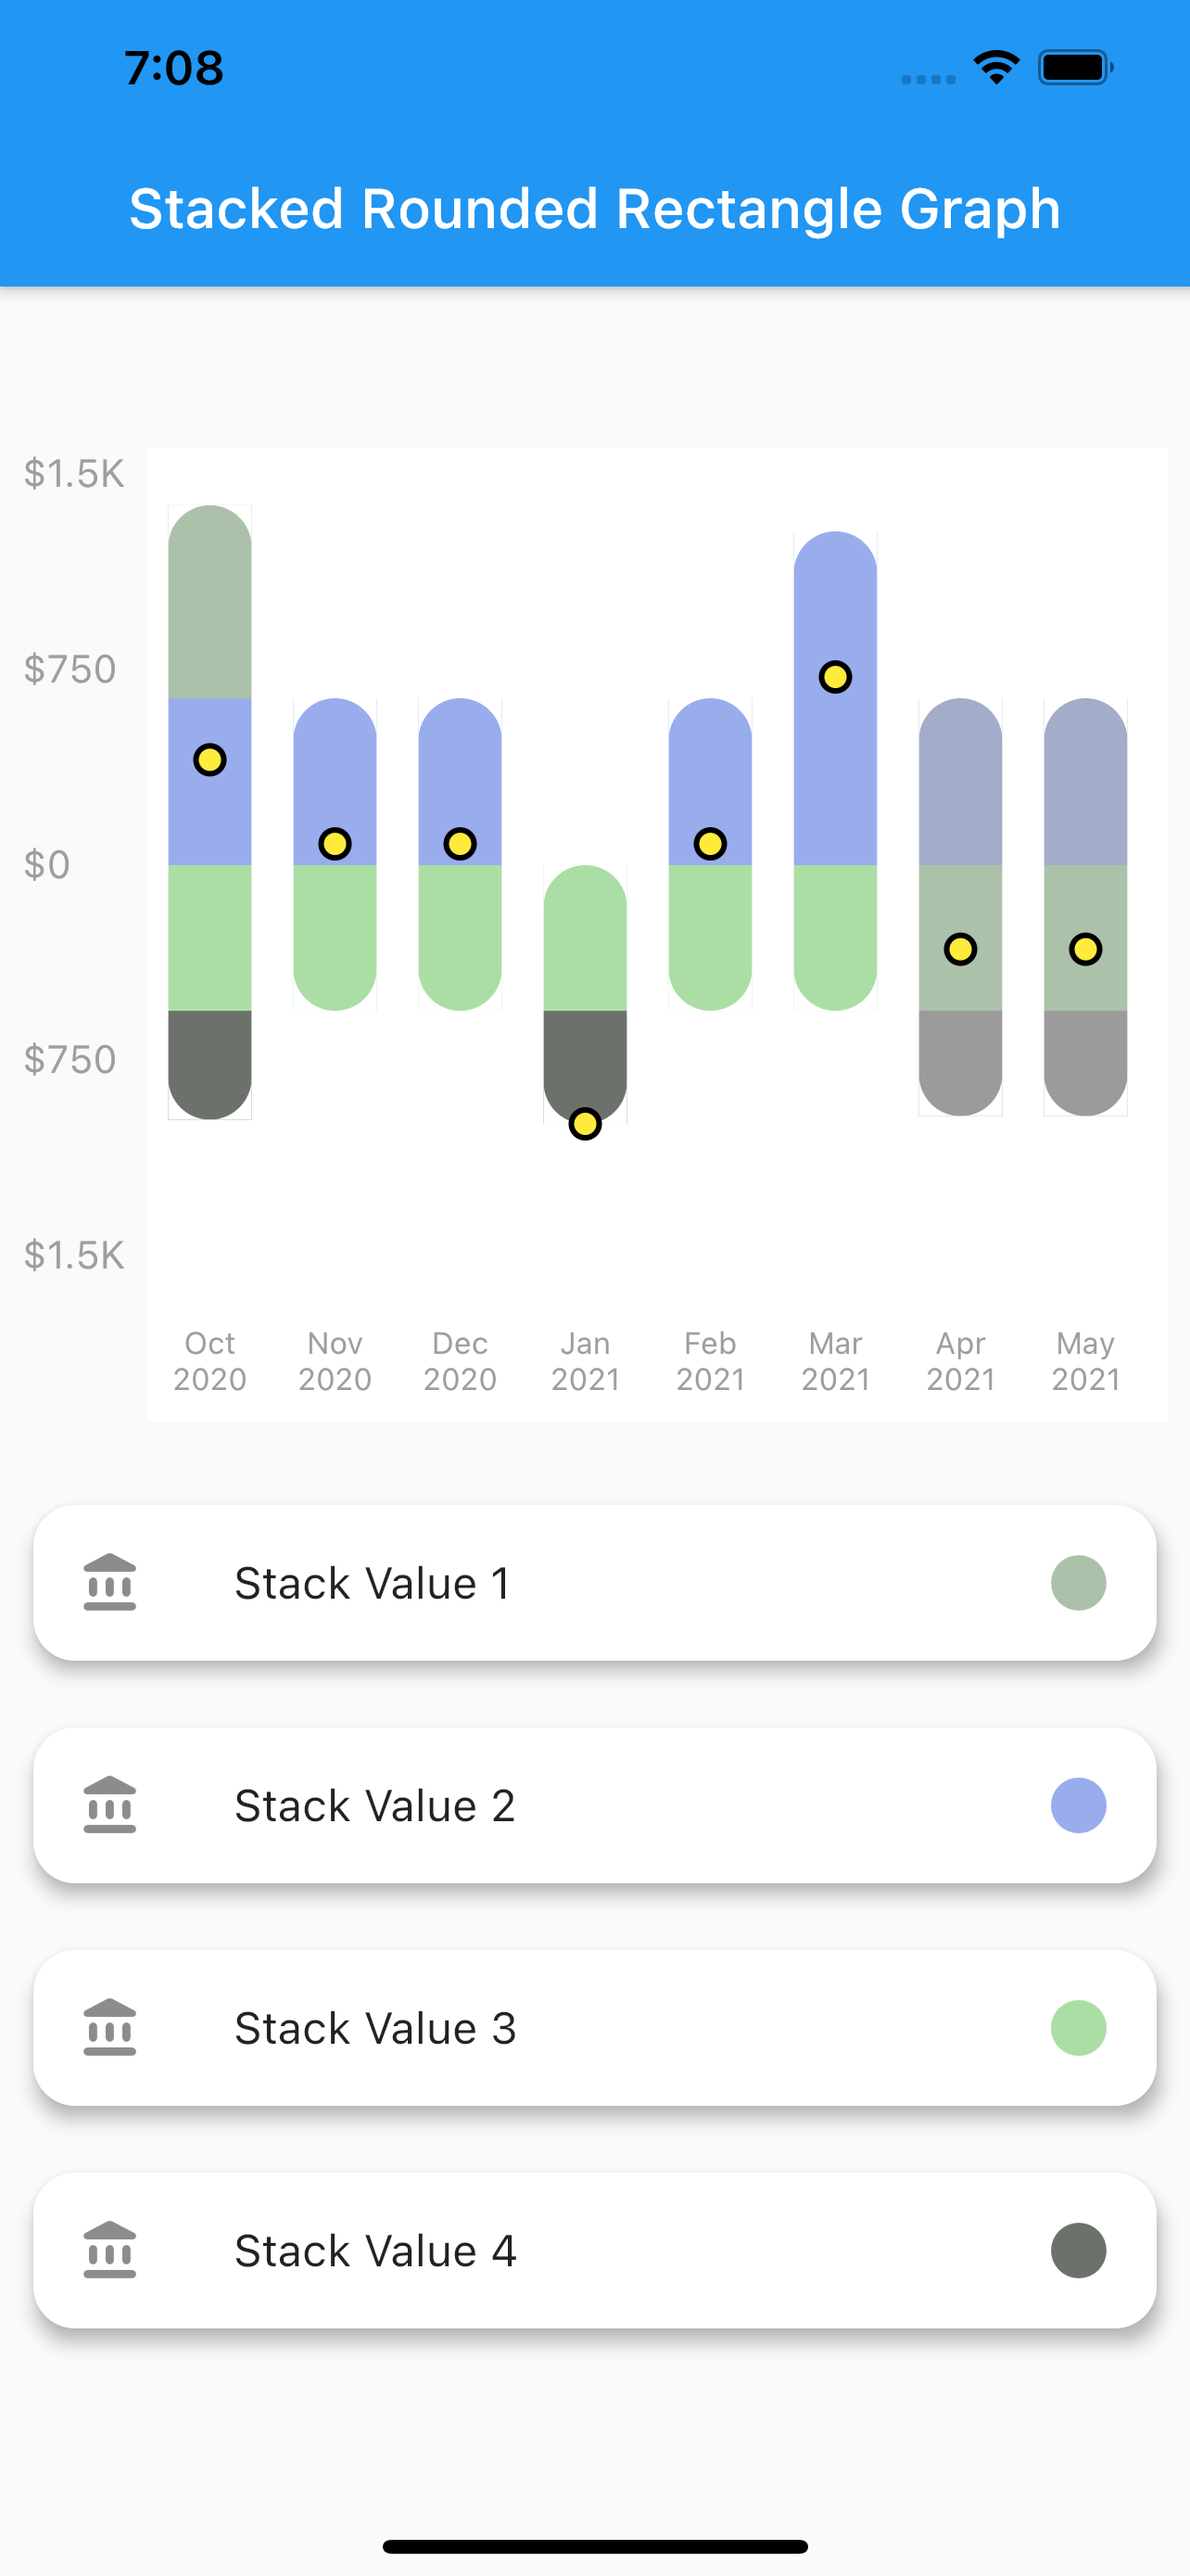
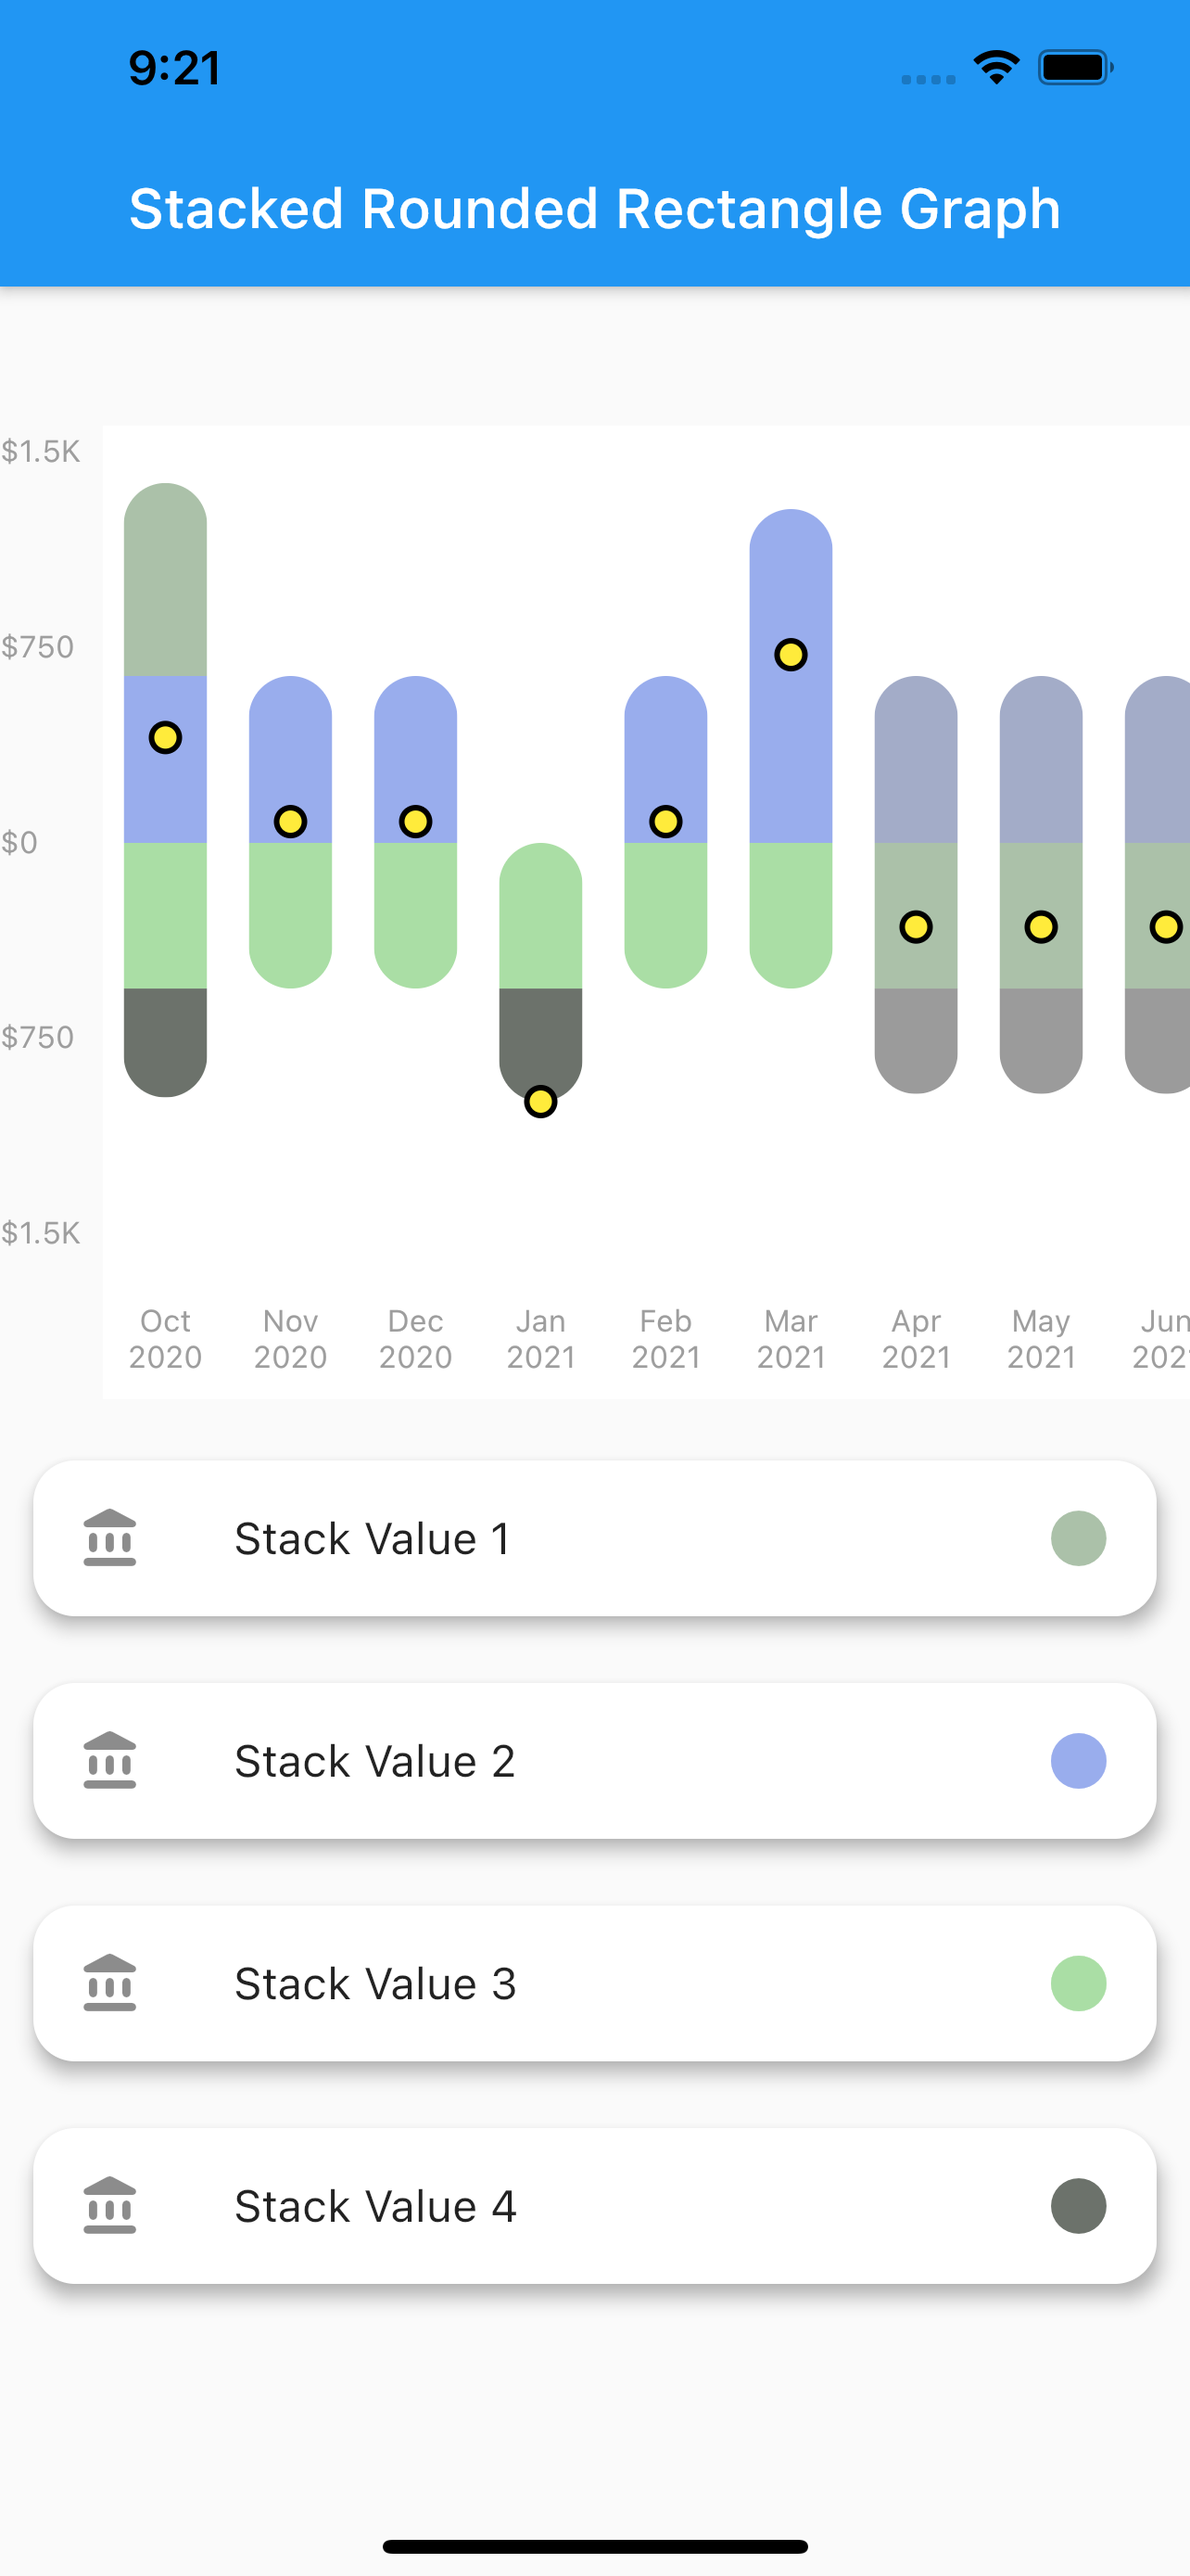
line outside rect removed

diff --git a/lib/axis_painter.dart b/lib/axis_painter.dart
@@ -6,13 +6,13 @@ class _AxisPainter extends CustomPainter {
     this.data, {
     this.yLabelMapper,
     this.yLabelStyle,
-    this.labelCount,
-    this.interval,
+    this.labelCount = 2,
+    this.interval = 500,
   });
   final String Function(num) yLabelMapper;
   final TextStyle yLabelStyle;
   final int labelCount;
-  final double interval; //y axis ka labels difference
+  final double interval;
 
   Point startPoint = Point();
   Point endPoint = Point();
@@ -29,13 +29,11 @@ class _AxisPainter extends CustomPainter {
     } else if (data.cumulativeHigh < data.cumulativeLow * -1) {
       return (-data.cumulativeLow / (((labelCount - 1) * 0.5) * interval / 2))
               .ceil() *
-          interval /
-          2;
+          interval;
     } else {
       return (data.cumulativeHigh / (((labelCount - 1) * 0.5) * interval / 2))
               .ceil() *
-          interval /
-          2;
+          interval;
     }
   }
 

diff --git a/lib/shape_painter.dart b/lib/shape_painter.dart
@@ -155,10 +155,10 @@ class _GraphPainter extends CustomPainter {
     );
     RRect rRect2 = RRect.fromRectAndRadius(
       Rect.fromLTWH(
-          ((paddedBarWidth - barWidth) / 2),
-          graphDisplayHeight / 2 - getHeightOfSection(barData.high),
-          barWidth,
-          getHeightOfSection(barData.range)),
+          ((paddedBarWidth - barWidth) / 2) - 1,
+          graphDisplayHeight / 2 - getHeightOfSection(barData.high) - 1,
+          barWidth + 2,
+          getHeightOfSection(barData.range) + 2),
       Radius.circular(0),
     );
     canvas.drawDRRect(
@@ -193,6 +193,7 @@ class _GraphPainter extends CustomPainter {
           ..strokeWidth = (netLine?.strokeWidth ?? 2),
       );
     }
+
     endPoint.x = startPoint.x - paddedBarWidth;
     endPoint.y = startPoint.y;
   }

diff --git a/lib/budget_graph.dart b/lib/budget_graph.dart
@@ -70,6 +70,8 @@ class BudgetGraph extends StatelessWidget {
     double high = data.cumulativeHigh > -data.cumulativeLow
         ? data.cumulativeHigh
         : -data.cumulativeLow;
+    List<String> adjustedLabel = high.toString().split(".");
+
     String label = yLabelMapper?.call(high) ?? high.toStringAsFixed(2);
 
     final textSpan = TextSpan(
@@ -85,7 +87,7 @@ class BudgetGraph extends StatelessWidget {
       maxWidth: paddedBarWidth,
     );
 
-    return textPainter.width;
+    return label.length == 7 ? textPainter.width + 5 : textPainter.width;
   }
 
   @override

diff --git a/lib/y_label_config.dart b/lib/y_label_config.dart
@@ -1,0 +1,13 @@
+part of stacked_bar_chart;
+
+class YLabelConfiguration {
+  ///The number of labels drawin in Y-axis
+  final int labelCount;
+  //The interval of the labels to be drawn
+  final double interval;
+
+  YLabelConfiguration({
+    this.labelCount = 5,
+    this.interval = 500,
+  });
+}

diff --git a/lib/stacked_bar_chart.dart b/lib/stacked_bar_chart.dart
@@ -12,3 +12,4 @@ part 'graph_data.dart';
 part 'budget_graph.dart';
 part 'net_line.dart';
 part 'graph_type.dart';
+part 'y_label_config.dart';
